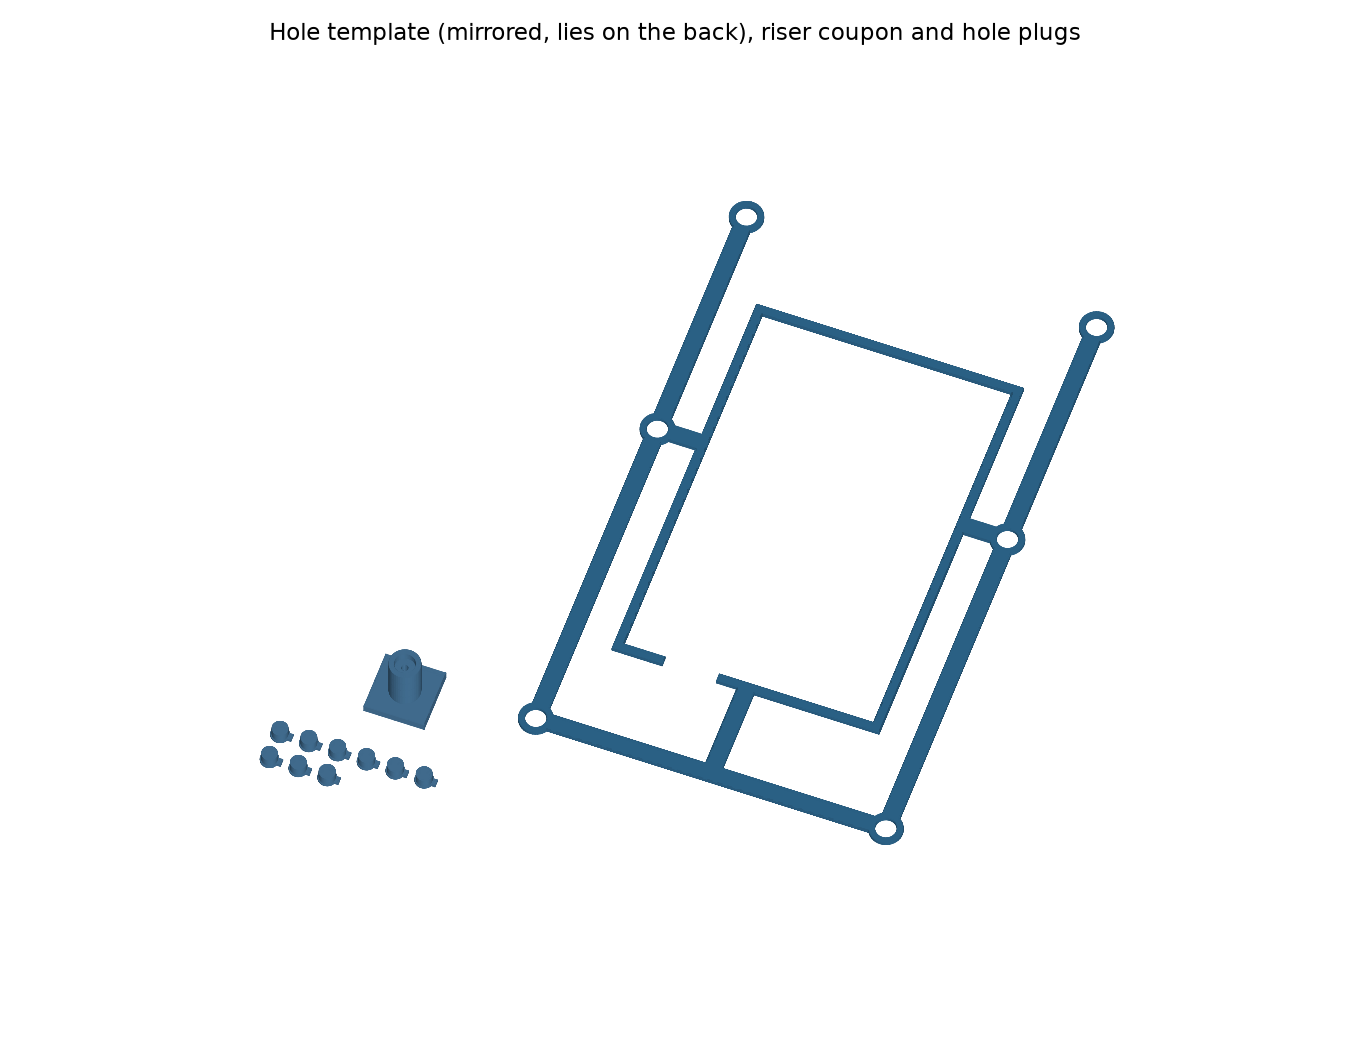
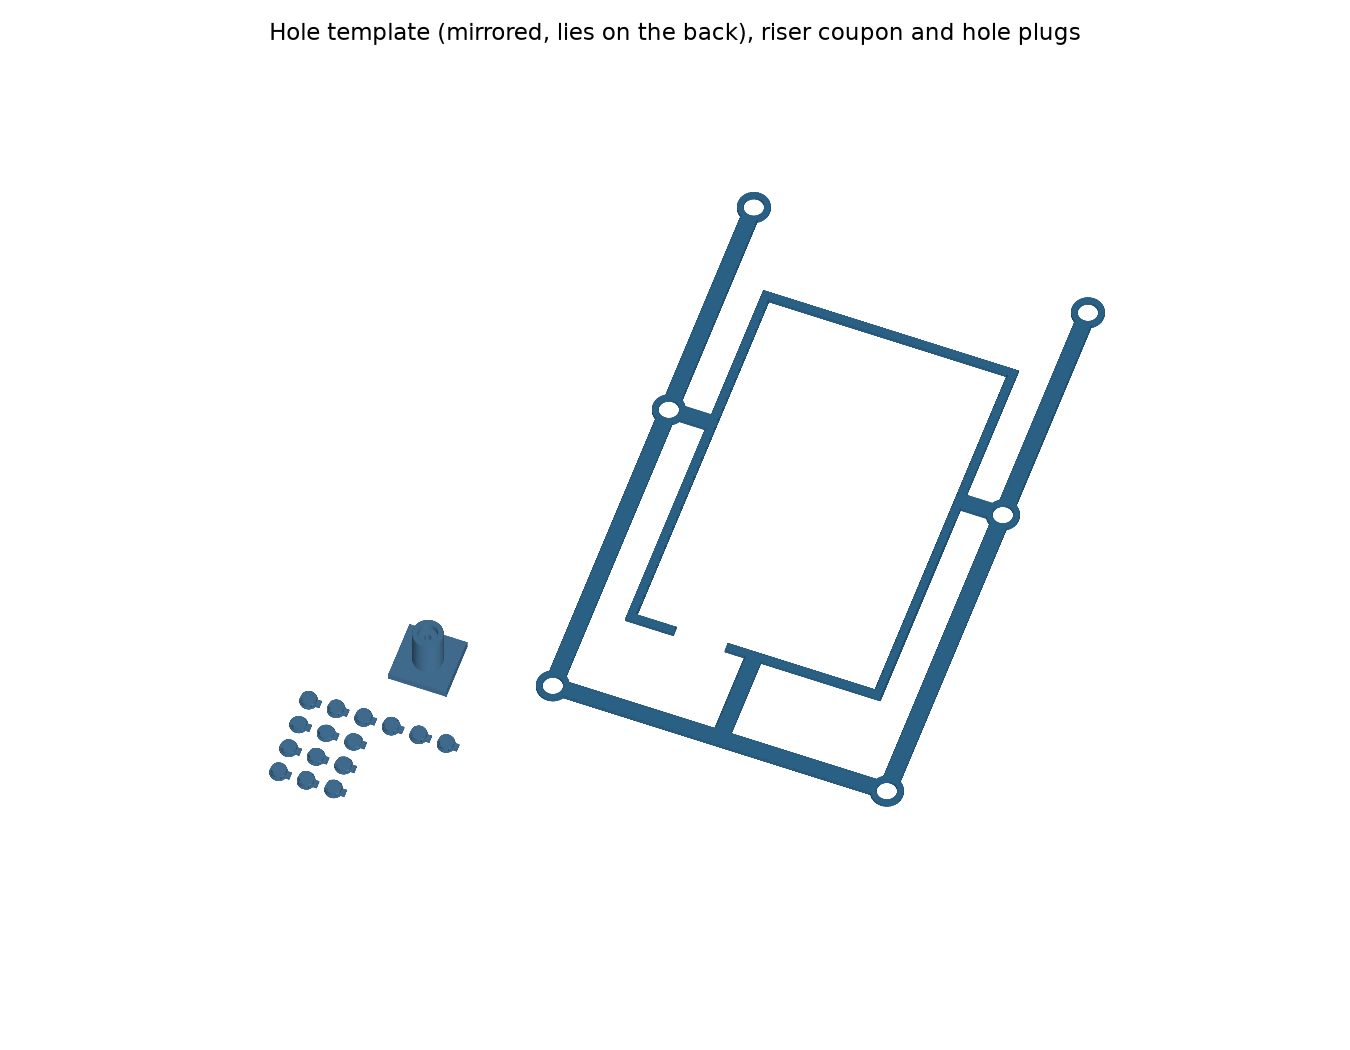
fix: COM-496 crush-rib cover plugs for the 10" stand back-plate
- Replace the loose, too-long plain friction cover plugs with crush-rib plugs: a Ø5.3 core with four chamfered ribs
- Size the six from a printed 3 × 3 trial (2.0 mm deep, Ø5.75 ribs) and the caliper-measured 2.5 mm head depth (PLUG_HEAD_DEPTH)
- Plug check uses the tighter of the modelled and measured head depth; README covers the trial and an open item on the shallow counterbore

diff --git a/apps/espframe/hardware/stand-10/stand10/coupons.py b/apps/espframe/hardware/stand-10/stand10/coupons.py
@@ -4,7 +4,7 @@ Print the template and the riser first: they check the board's measured hole pat
 outline, UART port position and screw length against the real board before the big parts.
 """
 
-from build123d import Align, Cylinder, Part, Pos, Rot
+from build123d import Align, Cylinder, Part, Plane, Polygon, Pos, Rot, extrude
 
 from . import params as p
 from .foot import build_rail
@@ -66,14 +66,20 @@ def riser_coupon() -> Part:
     return part
 
 
-def hole_plug(d: float, notches: int = 0) -> Part:
-    """One cover plug for a counterbored riser hole, flange down on the bed: a PLUG_BODY friction-fit body of
-    diameter d on a thin lip, with a pull tab on one side for a fingernail. Notches in the tab end count a trial size."""
+def hole_plug(rib_d: float = p.PLUG_RIB_D, body: float = p.PLUG_BODY, notches: int = 0) -> Part:
+    """One cover plug for a counterbored riser hole, flange down on the bed: a PLUG_CORE_D core, body deep, with
+    PLUG_RIB_N crush ribs reaching rib_d that squash into the Ø5.6 counterbore, on a thin lip with a pull tab on one
+    side for a fingernail. Each rib's top is chamfered as a lead-in. Notches in the tab end count a trial rib size."""
     fd, ft = p.PLUG_FLANGE
     tw, tr = p.PLUG_TAB
     plug = Cylinder(fd / 2, ft, align=(Align.CENTER, Align.CENTER, Align.MIN))
     plug += box(0, fd / 2 + tr, -tw / 2, tw / 2, 0, ft)
-    plug += Pos(0, 0, ft) * Cylinder(d / 2, p.PLUG_BODY, align=(Align.CENTER, Align.CENTER, Align.MIN))
+    plug += Pos(0, 0, ft) * Cylinder(p.PLUG_CORE_D / 2, body, align=(Align.CENTER, Align.CENTER, Align.MIN))
+    r, ch = rib_d / 2, min(p.PLUG_RIB_CHAMFER, body)
+    rib = extrude(Plane.XZ * Polygon((0, ft), (r, ft), (r, ft + body - ch), (r - ch, ft + body), (0, ft + body),
+                                     align=None), p.PLUG_RIB_W / 2, both=True)
+    for k in range(p.PLUG_RIB_N):
+        plug += Rot(Z=45 + k * 360 / p.PLUG_RIB_N) * rib
     for k in range(notches):
         y = -tw / 2 + (k + 1) * tw / (notches + 1)
         plug -= box(fd / 2 + tr - 0.5, fd / 2 + tr + 1, y - 0.2, y + 0.2, -1, ft + 1)
@@ -81,14 +87,16 @@ def hole_plug(d: float, notches: int = 0) -> Part:
 
 
 def plugs_coupon() -> Part:
-    """Six cover plugs at PLUG_D in a row, and below them the PLUG_TRIAL_D test set (1–3 notches, smallest first)."""
+    """Six cover plugs at PLUG_RIB_D × PLUG_BODY in a row, and below them the trial grid: a row per PLUG_TRIAL_BODY
+    (shallowest first), PLUG_TRIAL_RIB_D across it (1–3 notches, smallest first)."""
     pitch = p.PLUG_FLANGE[0] + p.PLUG_TAB[1] + 3
     out = None
     for i in range(len(p.HOLES)):
-        plug = Pos(i * pitch, 0, 0) * hole_plug(p.PLUG_D)
+        plug = Pos(i * pitch, 0, 0) * hole_plug()
         out = plug if out is None else out + plug
-    for i, d in enumerate(p.PLUG_TRIAL_D):
-        out += Pos(i * pitch, -pitch, 0) * hole_plug(d, i + 1)
+    for j, body in enumerate(p.PLUG_TRIAL_BODY):
+        for i, d in enumerate(p.PLUG_TRIAL_RIB_D):
+            out += Pos(i * pitch, -(j + 1) * pitch, 0) * hole_plug(d, body, i + 1)
     return out
 
 

diff --git a/apps/espframe/hardware/stand-10/stand10/params.py b/apps/espframe/hardware/stand-10/stand10/params.py
@@ -120,9 +120,20 @@ SCREW_HEAD_CB = (5.6, 3.5 + RISER_FIT_ADD)  # DESIGN: head counterbore (dia, dep
                                   #   gives 3.8 mm into the 4.4 mm insert. No washer: one would lift the head
                                   #   0.5 mm, into the cover plug
 BUTTON_HEAD_K = 1.5               # EST: tallest M2.5 button head expected (commercial 1.3–1.5)
-PLUG_D = 5.45                     # DESIGN: removable cover plug, a friction fit in the Ø5.6 counterbore (PETG)
-PLUG_TRIAL_D = [5.35, 5.45, 5.55] # DESIGN: plug test set, 1–3 notches in the pull tab
-PLUG_BODY = 1.6 + RISER_FIT_ADD   # DESIGN: plug depth into the counterbore, short of the screw head
+# Cover plugs (COM-496): the first plain Ø5.35–5.55 plugs were loose in the printed Ø5.6 counterbore and too long to sit
+# flush. Now a shorter undersize core with PLUG_RIB_N crush ribs that squash as it goes in, so the grip doesn't hang
+# on holding a 0.1 mm slip fit. The trial grid brackets the rib diameter (interference) and body depth.
+PLUG_CORE_D = 5.3                 # DESIGN: plain core, 0.15 mm/side clear of the Ø5.6 counterbore
+PLUG_RIB_N = 4                    # DESIGN: crush ribs round the core
+PLUG_RIB_W = 0.8                  # DESIGN: rib width, two extrusion widths so it prints as a solid fin
+PLUG_RIB_CHAMFER = 0.5            # DESIGN: lead-in on each rib's top so it starts into the bore
+PLUG_RIB_D = 5.75                 # MEASURED (COM-496 trial): across the rib faces, 0.075 mm/side into the counterbore
+                                  #   (the flat faces' corners reach ~0.05 mm further). The figure is the trial's label
+PLUG_HEAD_DEPTH = 2.5             # MEASURED (COM-496, calipers on the printed plate): back face to the screw head top. The
+                                  #   model says SCREW_HEAD_CB depth − BUTTON_HEAD_K = 4.25; the plugs size to the measured value
+PLUG_BODY = 2.0                   # MEASURED (COM-496 trial): plug depth into the counterbore, flush over the screw head
+PLUG_TRIAL_RIB_D = [5.75, 5.9, 6.05]  # DESIGN: trial rib diameters, 1–3 notches in the pull tab
+PLUG_TRIAL_BODY = [1.0, 1.5, 2.0]     # DESIGN: trial body depths, one row each (they show by length)
 PLUG_FLANGE = (SCREW_HEAD_CB[0] + 0.8, 0.6)  # DESIGN: lip (dia, thickness) proud of the back face
 PLUG_TAB = (2.5, 1.2)             # DESIGN: pull tab on one side of the lip (width, reach past the lip) for a fingernail
 MIN_PLUG_HEAD_GAP = 0.3           # DESIGN: check limit, plug end above the tallest button head

diff --git a/apps/espframe/hardware/stand-10/stand10/checks.py b/apps/espframe/hardware/stand-10/stand10/checks.py
@@ -80,12 +80,20 @@ def run(parts: dict) -> list:
         f"fit test: {p.FIT_FACE_GAP_MEASURED:g} mm from the frame face's rear to the glass with nominal risers; the "
         f"printed riser is {printed_add:.2f} mm longer, leaving {fit_gap:.2f} mm of air, no face felt (need 0.1–0.5)")
 
-    head_gap = p.SCREW_HEAD_CB[1] - p.WASHER_T - p.BUTTON_HEAD_K - p.PLUG_BODY
-    add("Hole plugs clear the screw heads",
-        head_gap >= p.MIN_PLUG_HEAD_GAP and max(p.PLUG_TRIAL_D + [p.PLUG_D]) < p.SCREW_HEAD_CB[0],
-        f"{p.PLUG_BODY:g} mm plug body in the {p.SCREW_HEAD_CB[1]:g} mm counterbore stops {head_gap:.1f} mm above a "
-        f"{p.BUTTON_HEAD_K:g} mm button head (need ≥ {p.MIN_PLUG_HEAD_GAP:g}); plugs Ø{min(p.PLUG_TRIAL_D):g}–"
-        f"{max(p.PLUG_TRIAL_D):g} (six at Ø{p.PLUG_D:g}) in a Ø{p.SCREW_HEAD_CB[0]:g} bore")
+    bore = p.SCREW_HEAD_CB[0]
+    ribs = p.PLUG_TRIAL_RIB_D + [p.PLUG_RIB_D]
+    model_depth = p.SCREW_HEAD_CB[1] - p.WASHER_T - p.BUTTON_HEAD_K
+    head_depth = min(model_depth, p.PLUG_HEAD_DEPTH)   # model or as printed, whichever is tighter
+    depth_src = "as measured" if p.PLUG_HEAD_DEPTH <= model_depth else "in the model"
+    head_gap = head_depth - max(p.PLUG_TRIAL_BODY + [p.PLUG_BODY])
+    add("Hole plugs clear the screw heads and grip on their ribs",
+        head_gap >= p.MIN_PLUG_HEAD_GAP and p.PLUG_CORE_D < bore < min(ribs) and max(ribs) < p.PLUG_FLANGE[0],
+        f"the deepest {max(p.PLUG_TRIAL_BODY + [p.PLUG_BODY]):g} mm plug body stops {head_gap:.2f} mm above the screw head, "
+        f"{head_depth:g} mm under the back face {depth_src} (model {model_depth:g}, measured {p.PLUG_HEAD_DEPTH:g}; "
+        f"need ≥ {p.MIN_PLUG_HEAD_GAP:g}); Ø{p.PLUG_CORE_D:g} "
+        f"core clear of the Ø{bore:g} bore, {p.PLUG_RIB_N} crush ribs Ø{min(ribs):g}–{max(ribs):g} "
+        f"({(min(ribs) - bore) / 2:.3f}–{(max(ribs) - bore) / 2:.3f} mm/side into it; six at Ø{p.PLUG_RIB_D:g} × "
+        f"{p.PLUG_BODY:g}), inside the Ø{p.PLUG_FLANGE[0]:g} lip")
 
     # 3. Antenna keep-out: no metal (plate screws other than the nylon one, frame inserts and screws, foot lock) near it.
     metal = {f"M2.5 at ({x:g}, {y:g})": (x, y) for x, y in p.HOLES if (x, y) != p.NYLON_HOLE}

diff --git a/apps/espframe/hardware/stand-10/README.md b/apps/espframe/hardware/stand-10/README.md
@@ -16,7 +16,7 @@ Overall 164 W × 127 D × 245 H mm. The screen leans back 15° and pushing it ba
 - **Picture frame (wood-look PLA).** The outer edge sits tight to the shell (2.7 mm outside it), and the face runs in over the whole black glass border to the picture, so only the picture shows, with a 0.75 mm reveal. Faces are 13.6 mm at the sides and 15.1 at the top; at the bottom the face runs down to the desk, a 20 mm border.
   - It's 164.1 × 253.1 mm printed face-down, within the P1S's 256 bed by 2.9 mm. A lower screen would need a shorter plug; a higher one would make the frame too tall to print in one piece.
   - It hangs on the back-plate: four M3 × 8 screws from behind, through the plate's edges, into inserts in bosses on its side walls. There's no bottom wall (as the 7", COM-431). It never touches the glass: as printed (see As-built fit below) the face's rear stays 0.25 mm off it, with no face felt.
-- **Back-plate (3 mm PETG), closed, behind the rear box.** Six printed risers (Ø11, 14.95 mm from the plate to the boss tops: the nominal 12.7 plus the 2.25 mm fit correction) stand on the board's six bosses (short black standoffs with brass M2.5 inserts) and carry the plate 2 mm behind the rear box. Each riser's skirt has a Ø7.9 × 3 mm recess that sleeves 3 of the boss's 4.5 mm, so the plate can't slide on its screws; the skirt stops 1.5 mm off the flat back, so the riser always seats on the boss top. Each screw hole is counterbored Ø5.6 × 5.75 mm from the back, so the M2.5 × 16 button heads sit about 4.25 mm below it, and a printed plug covers each one. Vent slots run in two rows low and two near the top.
+- **Back-plate (3 mm PETG), closed, behind the rear box.** Six printed risers (Ø11, 14.95 mm from the plate to the boss tops: the nominal 12.7 plus the 2.25 mm fit correction) stand on the board's six bosses (short black standoffs with brass M2.5 inserts) and carry the plate 2 mm behind the rear box. Each riser's skirt has a Ø7.9 × 3 mm recess that sleeves 3 of the boss's 4.5 mm, so the plate can't slide on its screws; the skirt stops 1.5 mm off the flat back, so the riser always seats on the boss top. Each screw hole is counterbored Ø5.6 × 5.75 mm from the back, so the M2.5 × 16 button heads sit about 4.25 mm below it in the model (2.5 measured on the printed plate), and a printed plug covers each one: a short Ø5.3 core with four crush ribs that squash into the counterbore (COM-496: the first plain plugs were loose and too long to sit flush). Vent slots run in two rows low and two near the top.
 - **Foot (PETG).** The plate's dovetail groove (in a spine left of the USB-C bank) slides down onto a rail on the foot's post. The cable drops through a notch in the plate's bottom edge and a slot in the shelf between the frame's side walls, runs through a tunnel into the tray, lies as one loose coil, and ends at the Poyiccot panel jack in the rear wall. The tray has a click-in lid, as on the 7".
 - **Power and data.** The same Poyiccot USB 3.1 straight panel-mount extension (30 cm) as the 7". Its plug goes into the board's **USB_UART** port (the USB-C beside the white TX/RX/GND header), so any USB-C charger powers it and you can flash or read logs through the stand.
 - **Antenna.** The C6's antenna window is near the top-left corner seen from the front (centre 23 mm from the top and from that edge). Only PETG covers it: the screw nearest it is nylon, and every other screw and insert stays at least 15 mm away (checked).
@@ -67,7 +67,7 @@ Every dimension is a named constant in [`stand10/params.py`](stand10/params.py),
 | Risers seat on the bosses | recess floor on the boss tops, no overlap with the board; skirts sleeve 3 mm of each boss and stop 1.5 mm off the flat back |
 | M2.5 × 16 engagement | button head, no washer, on the counterbore floor 12.2 mm above the boss top: 3.8 mm into the 4.4 mm insert, 0.6 short of its bottom. No washer: one would lift the head into the cover plug |
 | As-built face gap after the riser fit | fit test 2.5 mm behind the face with nominal risers; printed 2.25 mm longer: 0.25 mm of air, no face felt |
-| Hole plugs clear the screw heads | the 3.85 mm plug body stops 0.4 mm above a 1.5 mm button head; plugs Ø5.35–5.55 in the Ø5.6 counterbore |
+| Hole plugs clear the screw heads and grip on their ribs | the deepest (2.0 mm) trial plug stops 0.5 mm above the screw head, measured 2.5 mm under the back face on the printed plate (the model says 4.25); Ø5.3 core clear of the Ø5.6 counterbore, four crush ribs Ø5.75–6.05 (0.075–0.225 mm per side into it) |
 | No metal near the antenna window | nearest metal 25 mm away (need ≥ 15); nylon screw in the top-left hole |
 | Dovetail clearance | 0.02 mm per side on the flanks (the 7"'s printed coupon), no interference |
 | Dovetail groove ends inside the spine | 2 mm of solid spine above the groove end (the 7" groove once cut through the plate) |
@@ -99,7 +99,7 @@ Structural parts are PETG on the stock Bambu P1S profile with the 0.4 mm nozzle;
 | `coupon-riser` | As exported: plate square on the bed, riser up | As the plate. It should drop over a boss, and an M2.5 × 16 button head, no washer, should pull it down snug without bottoming, its head below the back face. Try the plug test set in its counterbore too. |
 | `coupon-receptacle` | Flat | Optional: the jack is the 7"'s, so plate 2 (1.2 mm) should end flush with its receptacle. |
 | `coupon-dovetail` | As exported (rail blocks standing on end) | Optional: the 7"'s 0.02 / 0.03 / 0.04 fit, already settled at 0.02 on this printer. |
-| `plugs` | Flat as exported: lips on the bed | 100% infill. Six hole plugs at Ø5.45, and below them a test set at Ø5.35 / 5.45 / 5.55 (1 / 2 / 3 notches in the pull tab). Push one into the riser coupon's counterbore: pick the size that holds and still pulls out with a fingernail under the tab, and if it isn't Ø5.45, change `PLUG_D` and reprint the six. |
+| `plugs` | Flat as exported: lips on the bed | 100% infill. Six crush-rib hole plugs (Ø5.3 core, four ribs to Ø5.75, 2.0 mm deep, picked from the trial), and below them a trial grid (COM-496): rows 1.0 / 1.5 / 2.0 mm deep, shallowest nearest the six, and across each row ribs to Ø5.75 / 5.9 / 6.05 (left to right with the six on top and the tabs pointing right; the 1 / 2 / 3 tab notches are too fine to print). Push them into the riser coupon's or plate's counterbores: pick the shortest that sits flush and the smallest rib that holds, still pulling out with a fingernail under the tab, then set `PLUG_RIB_D` / `PLUG_BODY` and reprint the six. |
 | `plate` | As exported: back face on the bed, risers and spine up | 4 walls, 40% infill, 0.2 mm layers |
 | `foot` | As exported: upright on its base | 4 walls, 25% infill, no supports |
 | `lid` | Flat | 3 walls |
@@ -133,11 +133,12 @@ The foot stands straight on the desk: no rubber feet (they'd lift the shelf towa
 
 ## As-built fit
 
-The first printed plate, screws tight, left 2.5 mm between the frame face's rear and the glass (6.5 mm from a rule on the face to the glass, less the 4 mm face), where the nominal model predicts 1.2 (1 mm felt + 0.2). The shortfall is somewhere in the board stack or the prints, so the model keeps its nominal board and risers and the printed parts carry a measured correction instead: `RISER_FIT_ADD = FIT_FACE_GAP_MEASURED − FIT_FACE_GAP_TARGET` = 2.5 − 0.25 = 2.25 mm on each riser of `plate` and `coupon-riser`. The counterbores (5.75 mm) and plug bodies (3.85 mm) deepen with it, so the screws keep 3.8 mm in the inserts. The frame, foot and lid don't change. To fit face felt after all, set `FIT_FACE_GAP_TARGET` to 1.25 (risers 1.25 longer, felt 0.25 off the glass) and reprint the plate and plugs.
+The first printed plate, screws tight, left 2.5 mm between the frame face's rear and the glass (6.5 mm from a rule on the face to the glass, less the 4 mm face), where the nominal model predicts 1.2 (1 mm felt + 0.2). The shortfall is somewhere in the board stack or the prints, so the model keeps its nominal board and risers and the printed parts carry a measured correction instead: `RISER_FIT_ADD = FIT_FACE_GAP_MEASURED − FIT_FACE_GAP_TARGET` = 2.5 − 0.25 = 2.25 mm on each riser of `plate` and `coupon-riser`. The counterbores (5.75 mm) deepen with it, so the screws keep 3.8 mm in the inserts. The cover plugs don't: they're sized from the head depth measured on the printed plate (`PLUG_HEAD_DEPTH`, see Open items). The frame, foot and lid don't change. To fit face felt after all, set `FIT_FACE_GAP_TARGET` to 1.25 (risers 1.25 longer, felt 0.25 off the glass) and reprint the plate (re-measure the head depth before reprinting the plugs).
 
 ## Open items
 
 - **Plug and cable:** the 27.5 mm plug length outside the port, its 6.5 mm thickness and the 4.5 mm cable are the 7"'s listing values. The bend has 1.7 mm of drop to spare: test-fit the real plug and cable under the printed foot's shelf before printing the frame. If it's tight, raise `SHELL_Z` (each mm up adds about 1 mm of drop, and lengthens the frame by about 1 mm, which has 2.9 mm left on the bed).
+- **Counterbore depth:** on the printed plate the screw head sits 2.5 mm under the back face, not the modelled 4.25 (COM-496). It's the counterbore's bridged floor sagging, the screw not seating on it, or the measured plate being the first print, before the 2.25 mm riser correction (its 3.5 mm counterbore puts a head about 2 mm down). Check which plate it was and that a tight screw's head is down on the floor. On a corrected plate a head that high also means about 1.75 mm less thread in the insert (about 2 mm, under the 3 mm minimum). The plugs are sized to the measured 2.5 (`PLUG_HEAD_DEPTH`); re-measure if the plate is reprinted.
 - **Antenna window size:** estimated 18 × 25 mm round its measured centre.
 - **Weights:** weigh the printed parts and update `PRINT_FILL` / `FRAME_FILL`; tip-over has 0.49 N to spare.
 - **Frame look:** print it and check the border on the real panel; tune `REVEAL` if a black line shows.
